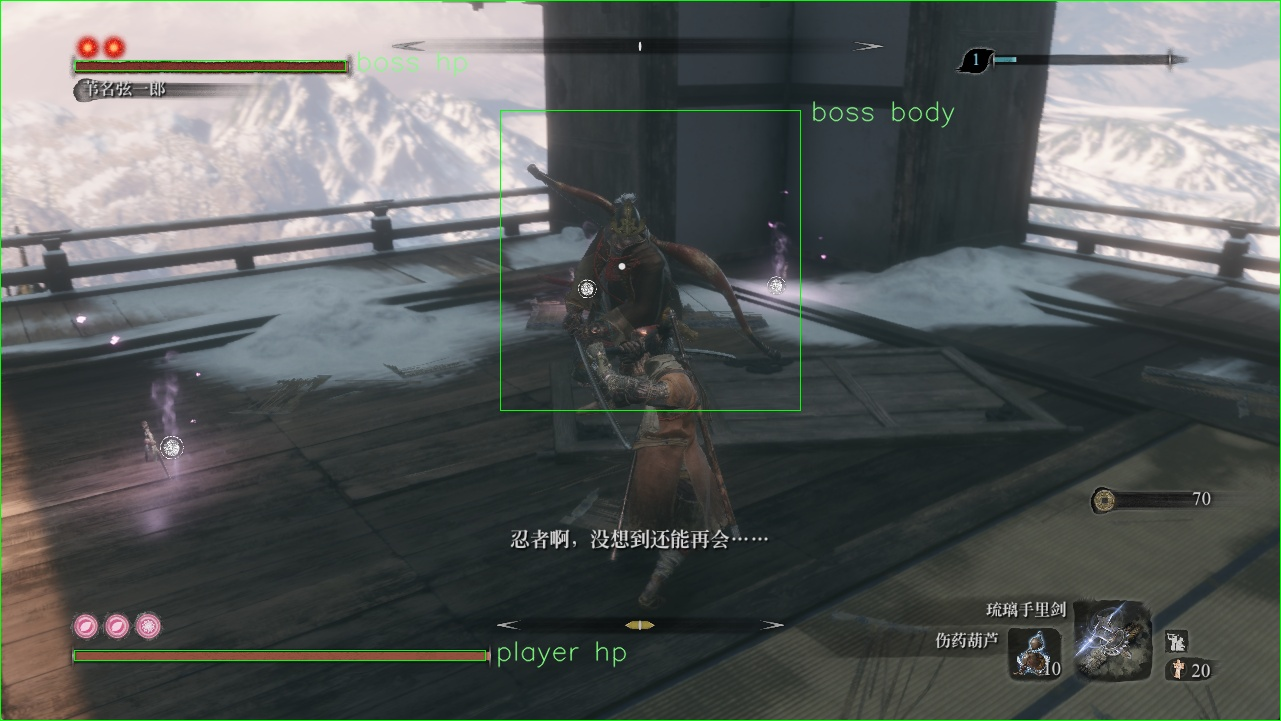
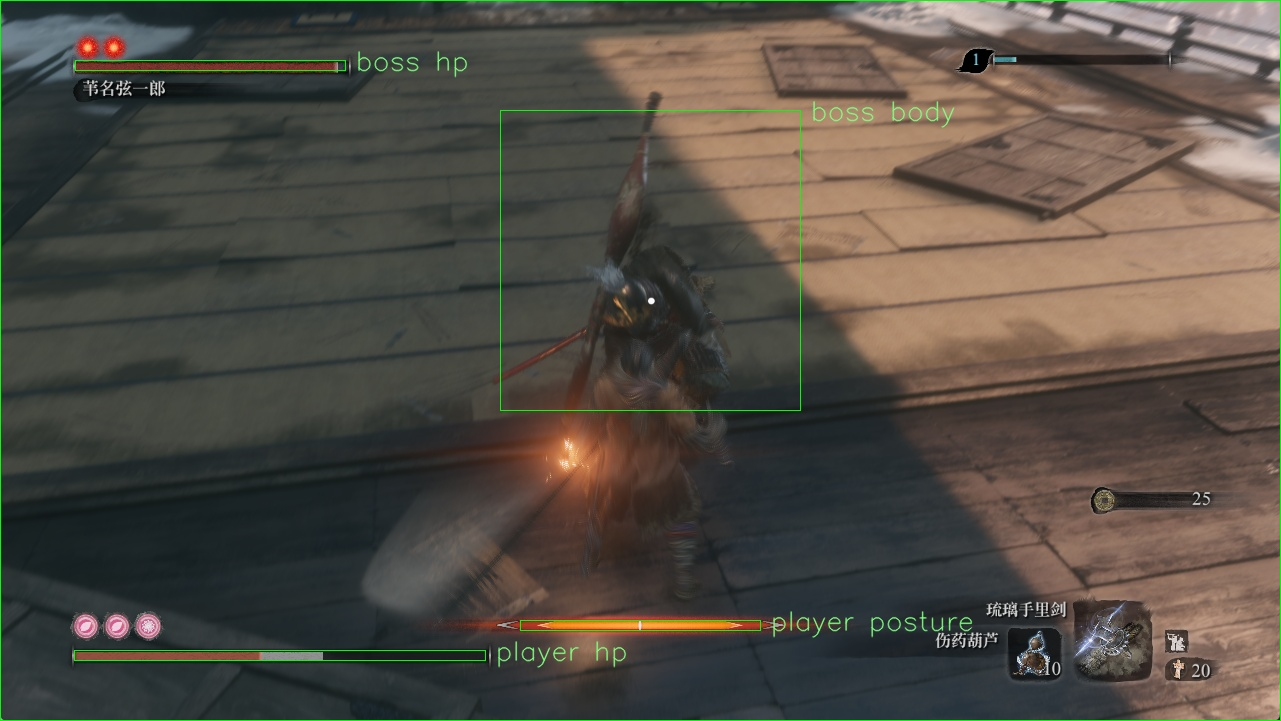
add posture value to debug window

diff --git a/test/test_posture.py b/test/test_posture.py
@@ -4,18 +4,37 @@ import cv2
 import numpy as np
 
 class Posture(): 
-    def __init__(self, blood_gray_min=100, blood_gray_max=140): 
+    def __init__(self, blood_gray_min=100, blood_gray_max=130): 
         self.blood_gray_min = blood_gray_min
         self.blood_gray_max = blood_gray_max
+        self.debug_name = 'test'
 
-        gray = cv2.imread('./self.gray.player posture window.png', cv2.IMREAD_GRAYSCALE)
+    def detect(self, file_path): 
+        print('-' * 100)
+        print(file_path)
+        gray = cv2.imread(file_path, cv2.IMREAD_GRAYSCALE)
+
         if True: 
-
             # posture bar is symmetrical, we only use the first half, but the reserved one.
             middle_row = np.flip(gray[gray.shape[0] // 2, 0:gray.shape[1] // 2])
             print('middle_row: ', middle_row)
             self.full_count = len(middle_row)
             first_pixel = middle_row[0]
+
+            if first_pixel >= 230: 
+                arr_index = np.where(middle_row > self.blood_gray_max)[0]
+                self.hp_count = len(arr_index)
+                print(self.hp_count, self.full_count)
+                self.status = (self.hp_count / self.full_count) * 100
+                return
+
+            if not first_pixel in [183, 184, 185]: 
+                self.hp_count = 0
+                self.status = 0
+                print('first_pixel error:', first_pixel)
+                # cv2.imwrite('self.gray.0.%s.png' % (self.debug_name), self.gray)
+                return
+
             # how to check if there is a posture bar?
             # print(self.debug_name)
             arr_index = np.where(middle_row < self.blood_gray_min)[0]
@@ -24,6 +43,8 @@ class Posture():
                 if arr_index.size > 15: 
                     self.hp_count = 0
                     self.status = 0
+                    # cv2.imwrite('self.gray.000.%s.png' % (self.debug_name), self.gray)
+                    # sys.exit(0)
                     return
 
                 self.hp_count = self.full_count
@@ -32,5 +53,11 @@ class Posture():
 
             self.hp_count = arr_index[0]
             self.status = (self.hp_count / self.full_count) * 100
+
+
+# main
 p = Posture()
-print(p.status)
+for i in range(0, 70): 
+    p.detect('./images/posture_%s.png' % (i))
+    print(p.status)
+

diff --git a/debug_display_game_info.py b/debug_display_game_info.py
@@ -1,6 +1,6 @@
 import cv2
 import time
-from window import game_width, game_height, set_windows_offset, game_window, BaseWindow, player_hp_window, boss_hp_window, global_enemy_window
+from window import game_width, game_height, set_windows_offset, game_window, BaseWindow, player_hp_window, boss_hp_window, global_enemy_window, player_posture_window
 import grabscreen
 import signal
 import sys
@@ -9,6 +9,8 @@ import colorsys
 import tkinter as tk
 import utils.change_window as change_window
 from utils.change_window import check_window_resolution_same
+from pynput.keyboard import Listener, Key
+import os
 
 # 标志位，表示是否继续运行
 running = True
@@ -176,6 +178,7 @@ def main_loop():
     # 添加初始变量（示例）
     app.add_variable("player_hp", var_type="float", column="left")
     app.add_variable("boss_hp", var_type="float", column="right")
+    app.add_variable("player_posture", var_type="float", column="left")
 
     '''
     app.add_variable("self_magic", var_type="float", column="left")
@@ -219,6 +222,7 @@ def main_loop():
                 **{
                     "player_hp": player_hp_window.get_status(),
                     "boss_hp": boss_hp_window.get_status(),
+                    'player_posture': player_posture_window.get_status(),
                 }
             )
 
@@ -228,8 +232,22 @@ def main_loop():
 
 
 if __name__ == "__main__":
+    '''
+    def on_press(key):
+        print('on_press: %s' % (key))
+        try:
+            if key == Key.backspace: 
+                os._exit(0)
+        except Exception as e:
+            print(e)
+
+    signal.signal(signal.SIGINT, signal_handler)
+    keyboard_listener = Listener(on_press=on_press)
+    keyboard_listener.start()
+    '''
+
     # 初始化截图工具
-    grabscreen.init_camera(target_fps=6)
+    grabscreen.init_camera(target_fps=13)
     
     # 把游戏窗口前置并移动到屏幕左上角
     change_window.correction_window()
